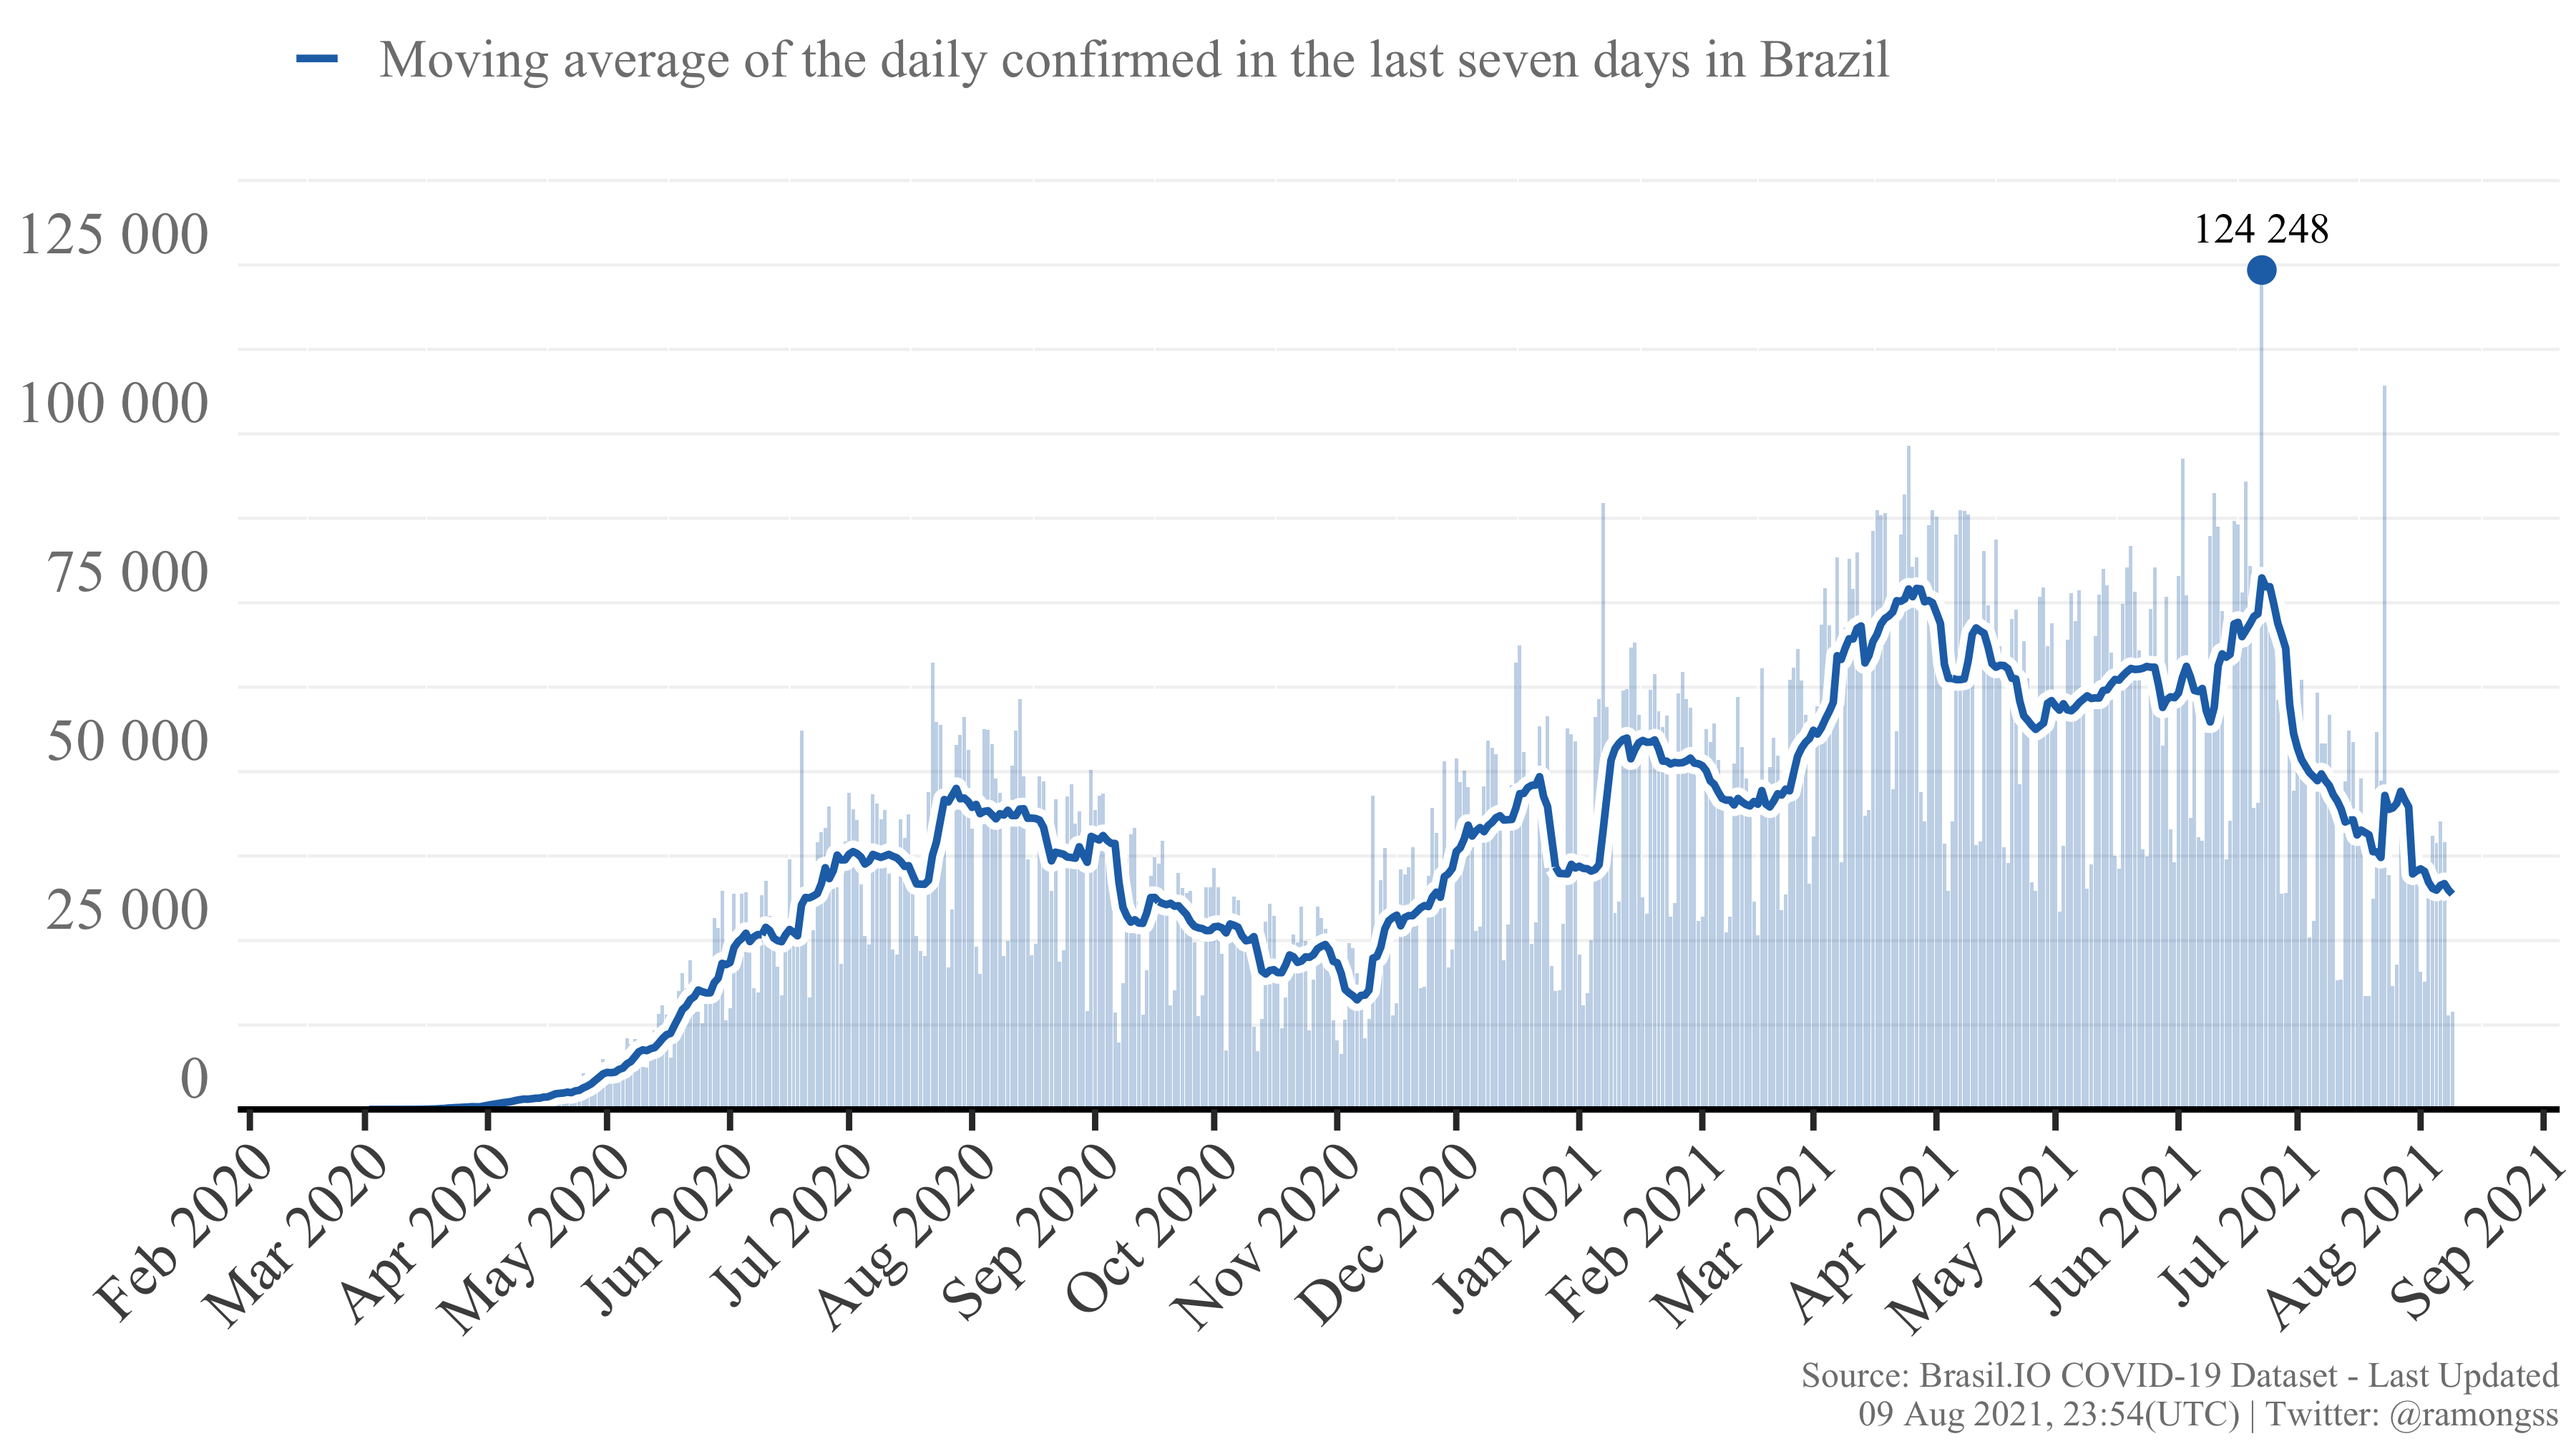
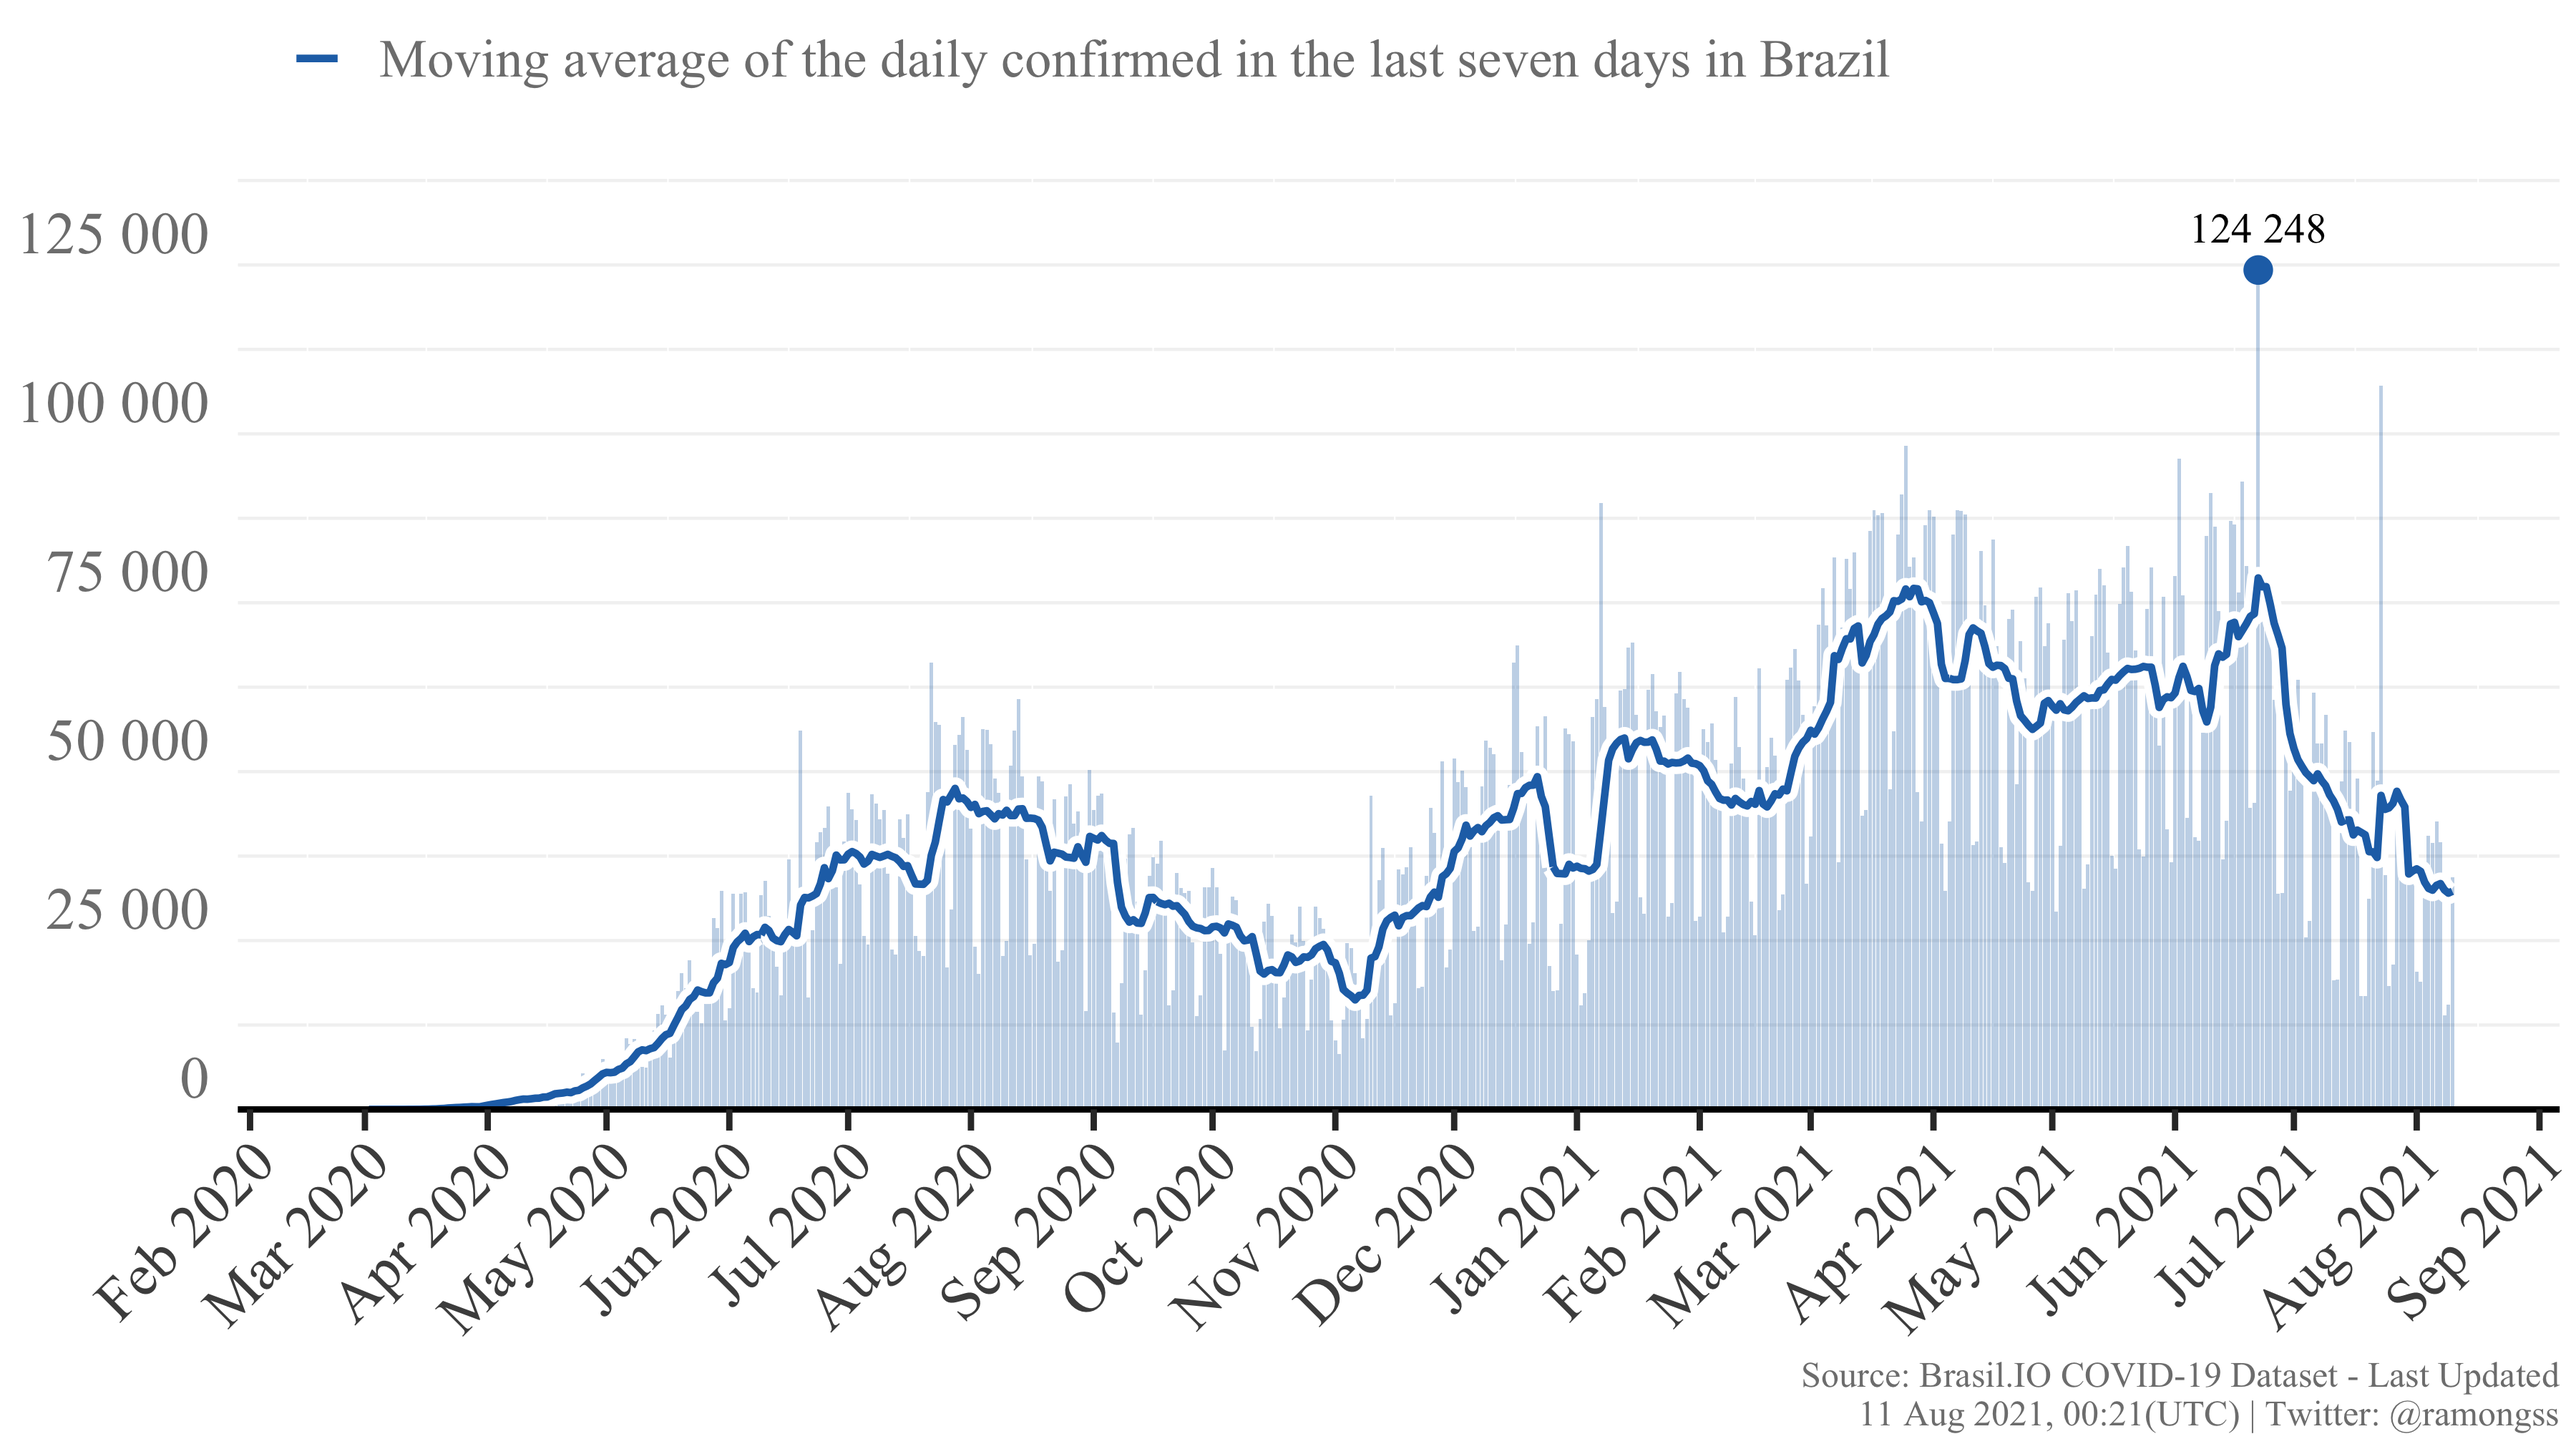
Re-build README.Rmd

diff --git a/README.md b/README.md
@@ -27,8 +27,8 @@ download_brasilio_table <- function(dataset = "covid19", table_name){
 
 ## COVID-19 Confirmed cases
 
-Currently, Brazil has a total of **20,184,418** confirmed cases at **09
-Aug, 2021**, with **14,429** new confirmed cases. The daily maximum
+Currently, Brazil has a total of **20,219,909** confirmed cases at **10
+Aug, 2021**, with **34,378** new confirmed cases. The daily maximum
 incidence was **124,248** confirmed cases at **22 Jun, 2021**. Here
 follows the Figure showing the confirmed case incidence as the bars, and
 the line as the moving average of the last 7 days.
@@ -37,8 +37,8 @@ the line as the moving average of the last 7 days.
 
 ## COVID-19 Deaths
 
-Currently, Brazil has a total of **563,895** deaths at **09 Aug, 2021**,
-with **478** new deaths. The daily maximum deaths incidence was
+Currently, Brazil has a total of **565,155** deaths at **10 Aug, 2021**,
+with **1,230** new deaths. The daily maximum deaths incidence was
 **4,148** deaths at **08 Apr, 2021**. Here follows the Figure showing
 the deaths incidence as the bars, and the line as the moving average of
 the last 7 days.
@@ -49,4 +49,4 @@ the last 7 days.
 
 This page is daily updated automatically using Github Actions.
 
-*Last update: 09 Aug 2021, 23:54 (UTC).*
+*Last update: 11 Aug 2021, 00:21 (UTC).*
